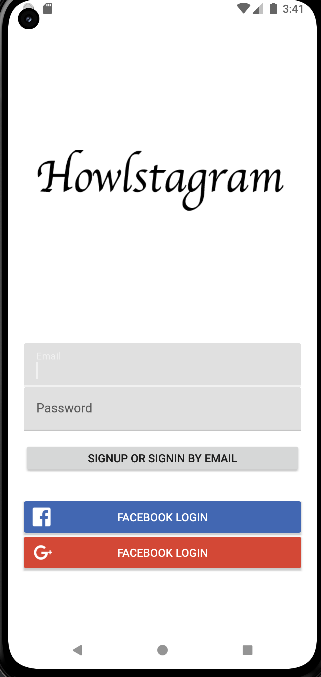
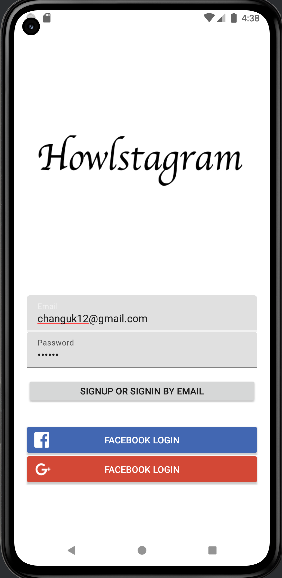
feat: firebase 연동 update

Changed region(s): [[0.0, 0.0, 1.0, 1.0], [0.1135, 0.218, 0.8794, 0.3426], [0.2553, 0.654, 0.7376, 0.6851]]

diff --git a/app/src/main/java/com/example/clonestagram/LoginActivity.kt b/app/src/main/java/com/example/clonestagram/LoginActivity.kt
@@ -1,20 +1,76 @@
 package com.example.clonestagram
 
+import android.content.Intent
 import android.os.Bundle
+import android.widget.Button
+import android.widget.EditText
+import android.widget.Toast
 import androidx.activity.enableEdgeToEdge
 import androidx.appcompat.app.AppCompatActivity
 import androidx.core.view.ViewCompat
 import androidx.core.view.WindowInsetsCompat
+import com.google.firebase.auth.FirebaseAuth
+import com.google.firebase.auth.FirebaseUser
+
 
 class LoginActivity : AppCompatActivity() {
+    var auth: FirebaseAuth? = null
     override fun onCreate(savedInstanceState: Bundle?) {
         super.onCreate(savedInstanceState)
         enableEdgeToEdge()
         setContentView(R.layout.activity_login)
+        auth = FirebaseAuth.getInstance()
+
+
         ViewCompat.setOnApplyWindowInsetsListener(findViewById(R.id.main)) { v, insets ->
             val systemBars = insets.getInsets(WindowInsetsCompat.Type.systemBars())
             v.setPadding(systemBars.left, systemBars.top, systemBars.right, systemBars.bottom)
             insets
         }
+        fun moveMainPage(user: FirebaseUser?) {
+            if (user != null) {
+                startActivity(Intent(this, MainActivity::class.java))
+            }
+        }
+
+        fun signinEmail() {
+            var emailEditText: EditText = findViewById(R.id.email_edittext)
+            var passwordEditText: EditText = findViewById(R.id.password_edittext)
+            auth?.signInWithEmailAndPassword(emailEditText.toString(), passwordEditText.toString())
+                ?.addOnCompleteListener { task ->
+                    if (task.isSuccessful) {
+                        // Login
+                        moveMainPage(task.result.user)
+                    } else {
+                        // Show the error message
+                        Toast.makeText(this, task.exception?.message, Toast.LENGTH_LONG).show()
+                    }
+                }
+        }
+
+        fun signinAndSignUp() {
+            var emailEditText: EditText = findViewById(R.id.email_edittext)
+            var passwordEditText: EditText = findViewById(R.id.password_edittext)
+            auth?.createUserWithEmailAndPassword(
+                emailEditText.text.toString(),
+                passwordEditText.text.toString()
+            )?.addOnCompleteListener { task ->
+                if (task.isSuccessful) {
+                    // Creating a user account
+                    moveMainPage(task.result.user)
+                } else if (task.exception?.message.isNullOrBlank()) {
+                    // Show the error message
+                    Toast.makeText(this, task.exception?.message, Toast.LENGTH_LONG).show()
+                } else {
+                    // Login if you have account
+                    signinEmail()
+                }
+            }
+        }
+        val emaliLoginButton: Button = findViewById(R.id.email_login_button)
+        emaliLoginButton.setOnClickListener {
+            signinAndSignUp()
+        }
+
     }
 }
